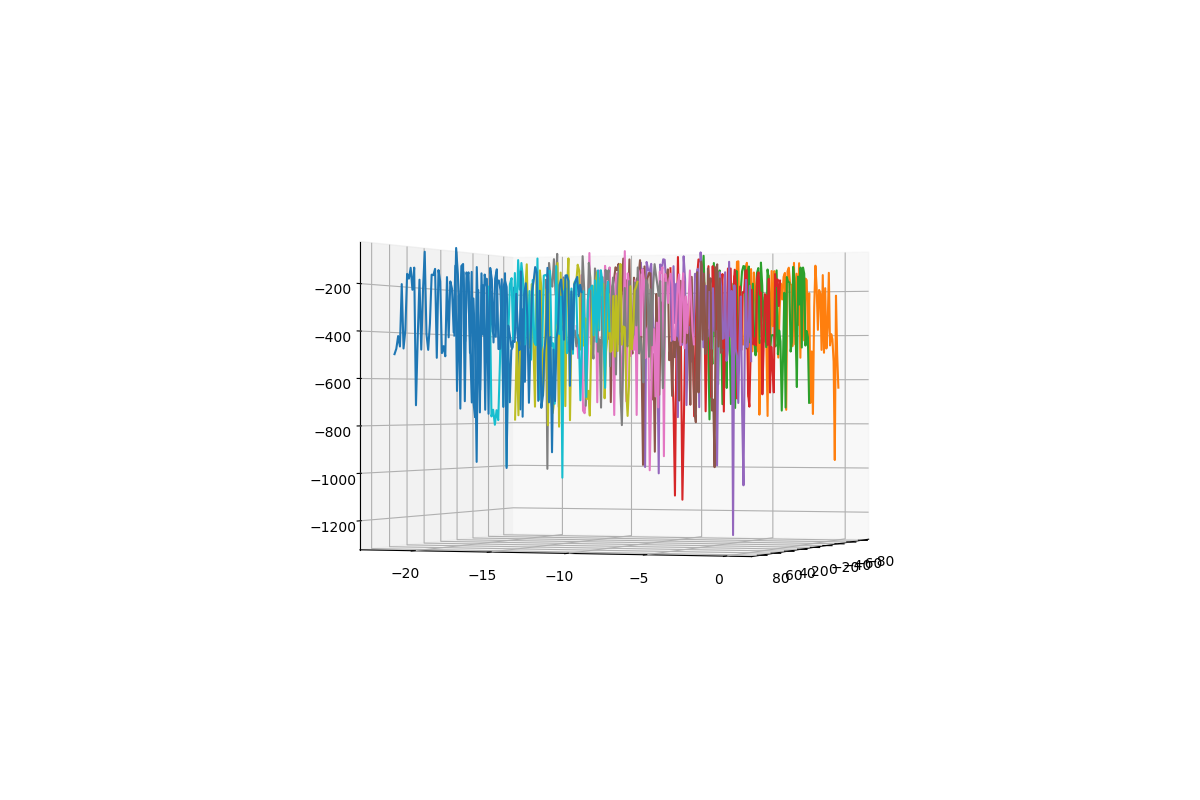
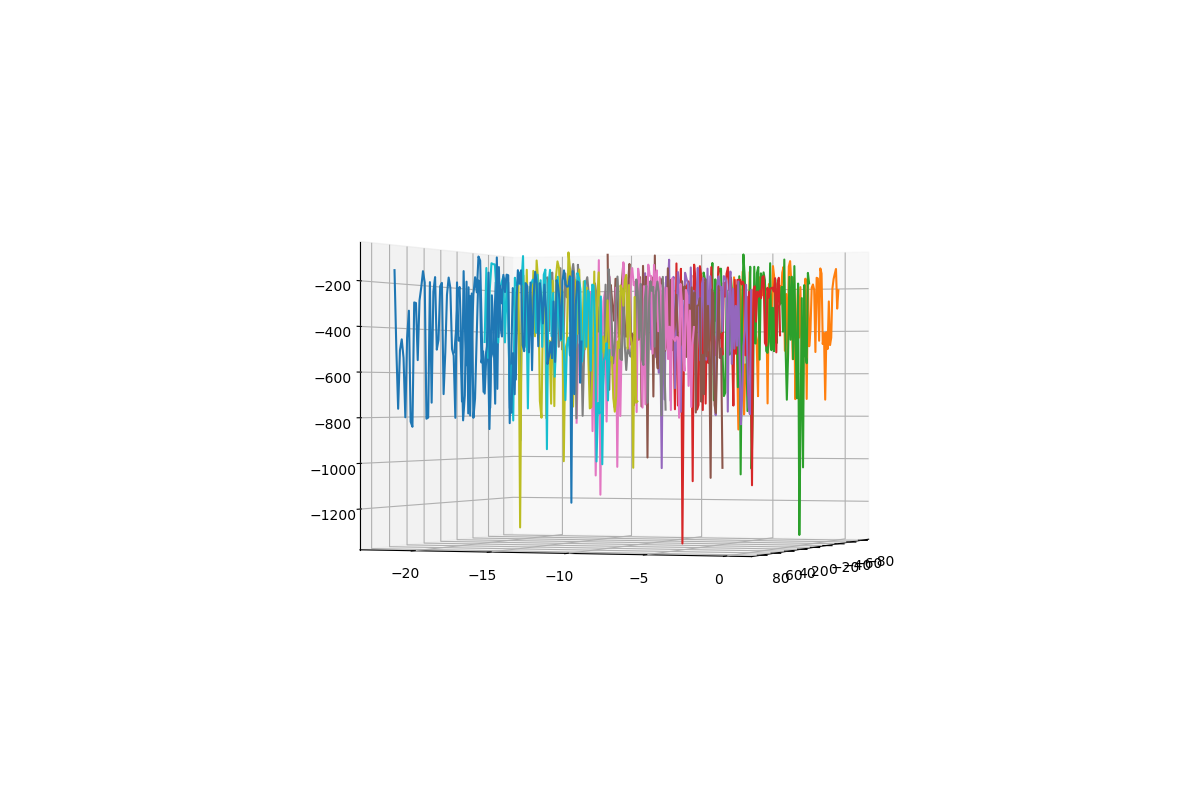
test evaluation with fixed entropy alpha=0.2

Changed region(s): [[0.2467, 0.3125, 0.7092, 0.6562], [0.2775, 0.5312, 0.4008, 0.6562]]

diff --git a/TestSAC/Vignette.py b/TestSAC/Vignette.py
@@ -138,7 +138,7 @@ if __name__ == "__main__":
 
 		# Evaluate the Model : mean, std
 		print("Evaluating the model...")
-		init_score = evaluate_policy(model, env, n_eval_episodes=args.eval_maxiter, warn=False)[0]
+		init_score = evaluate_policy(model, env, n_eval_episodes=args.eval_maxiter, alpha = 0.2 ,warn=False)[0]
 		print("Model initial fitness : "+str(init_score))
 
 		# Study the geometry around the model
@@ -176,11 +176,11 @@ if __name__ == "__main__":
 					# 	Go forward in the direction
 					model.policy.load_from_vector(theta_plus[param_i])
 					#		Get the new performance
-					scores_plus.append(evaluate_policy(model, env, n_eval_episodes=args.eval_maxiter, warn=False)[0])
+					scores_plus.append(evaluate_policy(model, env, n_eval_episodes=args.eval_maxiter,alpha = 0.2, warn=False)[0])
 					# 	Go backward in the direction
 					model.policy.load_from_vector(theta_minus[param_i])
 					#		Get the new performance
-					scores_minus.append(evaluate_policy(model, env, n_eval_episodes=args.eval_maxiter, warn=False)[0])
+					scores_minus.append(evaluate_policy(model, env, n_eval_episodes=args.eval_maxiter, alpha = 0.2, warn=False)[0])
 					
 					bar.next()
 
